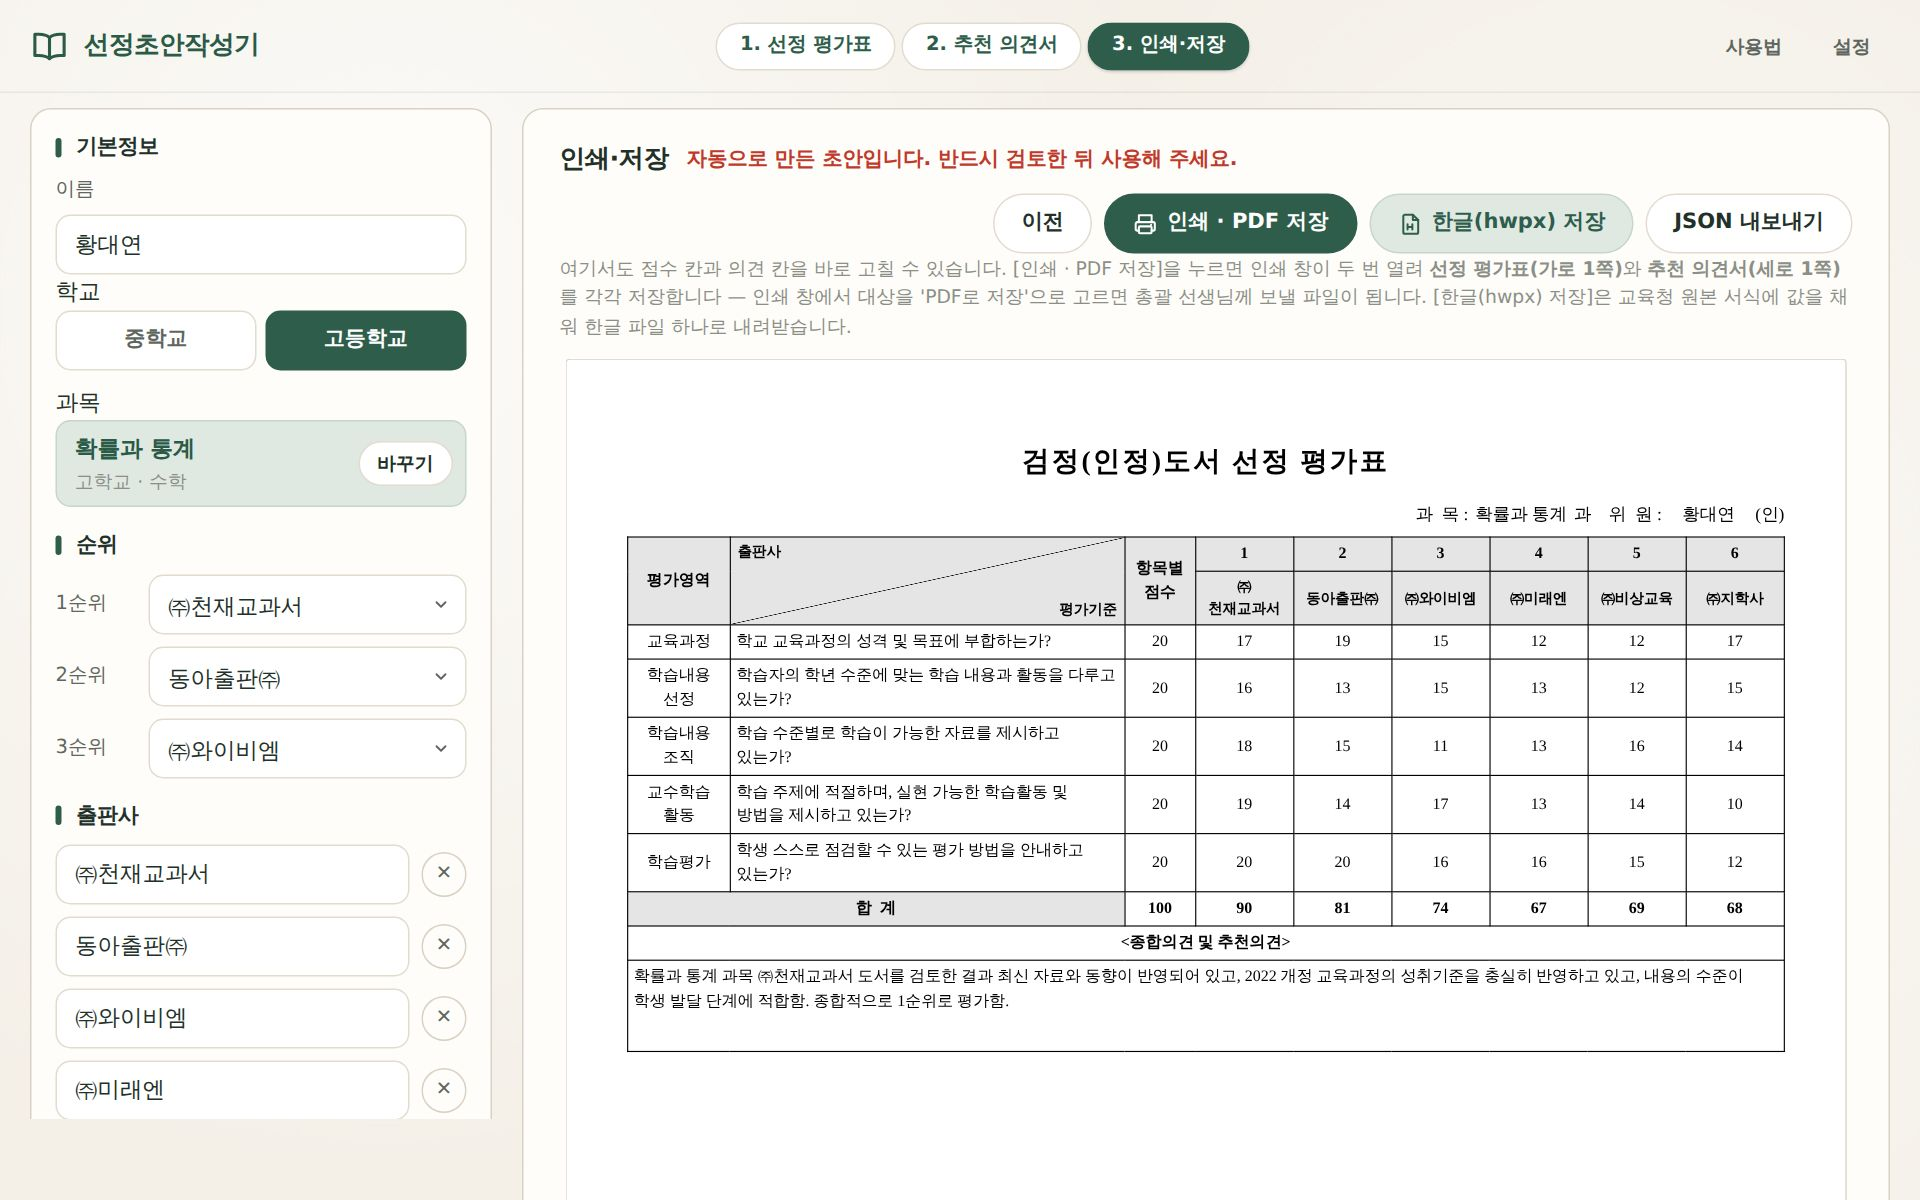
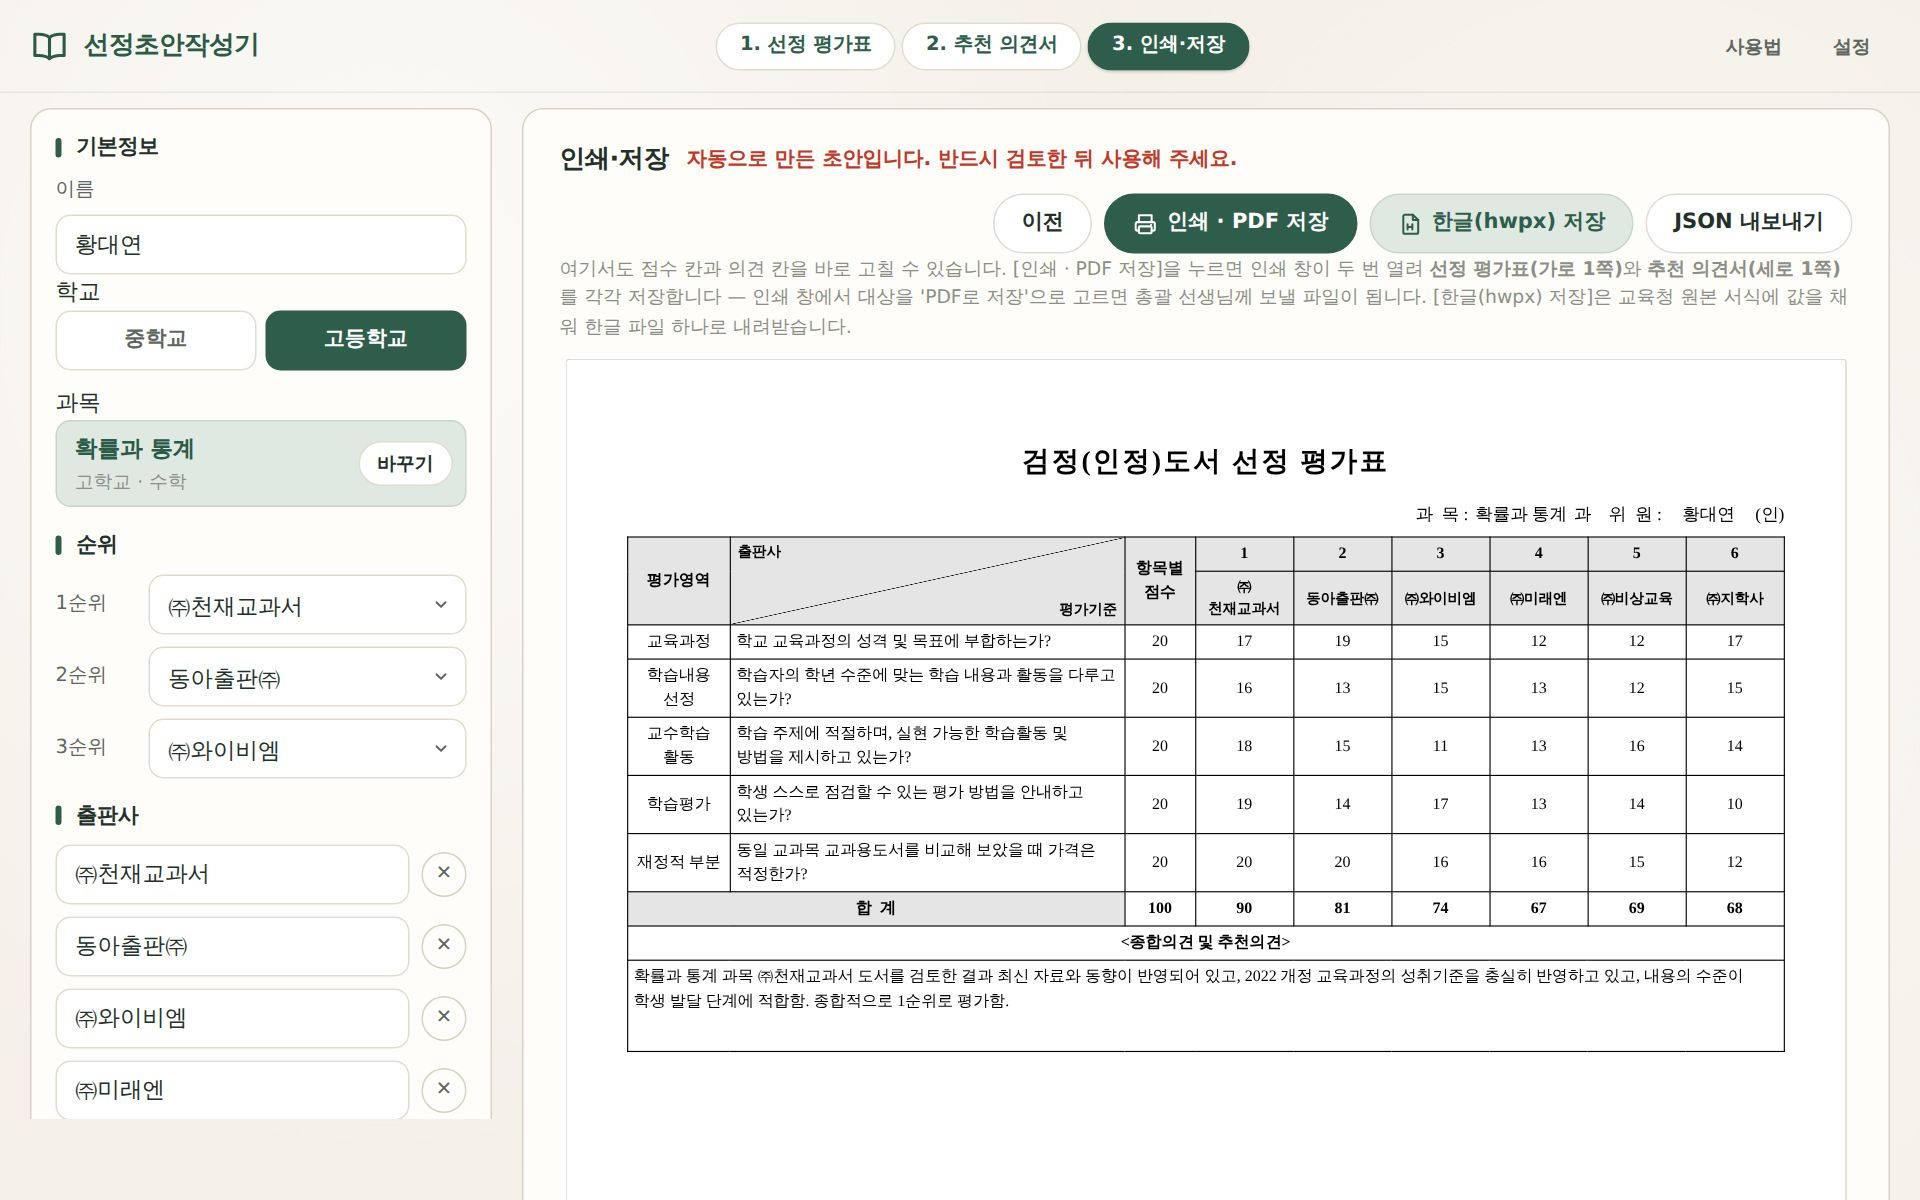
기본 평가기준: '학습내용 조직' 대신 재정 항목을 넣었다
교육과정 / 학습내용 선정 / 교수학습 활동 / 학습평가 / 재정적 부분(동일 교과목 교과용도서를 비교해
보았을 때 가격은 적정한가?), 각 20점. 재정 항목은 계획안 방침대로 필수(잠금)다.

손대지 않은 예전 기본값(첫 판·어제 판 모두)은 새 기본값으로 갈아 끼우고,
고쳐 둔 기준과 과목 전용 기준은 그대로 둔다. 사용법 캐러셀 화면 사진도 다시 찍었다.

Claude-Session: https://claude.ai/code/session_01RCs1Brw9A4HvY1UdBXHbwC

Changed region(s): [[0.3438, 0.5858, 0.5625, 0.74]]

diff --git a/src/seed.ts b/src/seed.ts
@@ -75,25 +75,37 @@ export function seedSubjects(): Subject[] {
   return out
 }
 
-/** 기본 평가기준 (학교 선정 계획안의 서식1 예시 그대로, 5항목 × 20점) */
+/**
+ * 기본 평가기준 (학교 선정 계획안의 서식1 예시 + 계획안 방침의 재정 항목, 5항목 × 20점).
+ * 재정 항목은 계획안이 '필수 평가요소'로 두고 있어 지울 수 없게 잠근다.
+ */
 export const DEFAULT_CRITERIA: Omit<Criterion, 'id' | 'subjectId'>[] = [
   { area: '교육과정', text: '학교 교육과정의 성격 및 목표에 부합하는가?', points: 20, locked: false, order: 1 },
   { area: '학습내용 선정', text: '학습자의 학년 수준에 맞는 학습 내용과 활동을 다루고 있는가?', points: 20, locked: false, order: 2 },
-  { area: '학습내용 조직', text: '학습 수준별로 학습이 가능한 자료를 제시하고 있는가?', points: 20, locked: false, order: 3 },
-  { area: '교수학습 활동', text: '학습 주제에 적절하며, 실현 가능한 학습활동 및 방법을 제시하고 있는가?', points: 20, locked: false, order: 4 },
-  { area: '학습평가', text: '학생 스스로 점검할 수 있는 평가 방법을 안내하고 있는가?', points: 20, locked: false, order: 5 },
+  { area: '교수학습 활동', text: '학습 주제에 적절하며, 실현 가능한 학습활동 및 방법을 제시하고 있는가?', points: 20, locked: false, order: 3 },
+  { area: '학습평가', text: '학생 스스로 점검할 수 있는 평가 방법을 안내하고 있는가?', points: 20, locked: false, order: 4 },
+  { area: '재정적 부분', text: '동일 교과목 교과용도서를 비교해 보았을 때 가격은 적정한가?', points: 20, locked: true, order: 5 },
 ]
 
 /**
- * 예전 기본 평가기준. 이 컴퓨터의 기본 기준이 이것과 똑같으면(선생님이 손대지 않았으면)
+ * 예전 기본 평가기준들. 이 컴퓨터의 기본 기준이 이 중 하나와 똑같으면(선생님이 손대지 않았으면)
  * 새 기본값으로 바꿔 준다 (store/migrate.ts). 손댄 기준은 그대로 둔다.
  */
-export const LEGACY_DEFAULT_CRITERIA: Pick<Criterion, 'area' | 'text' | 'points'>[] = [
-  { area: '교육과정 적합성', text: '2022 개정 교육과정 성취기준 반영 및 내용의 타당성', points: 25 },
-  { area: '내용의 선정·조직', text: '학생 수준·흥미에 맞는 내용 선정과 체계적 구성', points: 25 },
-  { area: '교수·학습 및 평가', text: '탐구·활동 과제, 자기주도학습 및 평가 자료의 적절성', points: 20 },
-  { area: '표현·표기 및 편집', text: '문장·용어의 정확성, 삽화·디자인·가독성', points: 15 },
-  { area: '가격 및 재정 (필수)', text: '정가의 적정성, 전년 대비 증감 및 동일 과목 타 도서와의 비교', points: 15 },
+export const LEGACY_DEFAULT_CRITERIA: Pick<Criterion, 'area' | 'text' | 'points'>[][] = [
+  [
+    { area: '교육과정 적합성', text: '2022 개정 교육과정 성취기준 반영 및 내용의 타당성', points: 25 },
+    { area: '내용의 선정·조직', text: '학생 수준·흥미에 맞는 내용 선정과 체계적 구성', points: 25 },
+    { area: '교수·학습 및 평가', text: '탐구·활동 과제, 자기주도학습 및 평가 자료의 적절성', points: 20 },
+    { area: '표현·표기 및 편집', text: '문장·용어의 정확성, 삽화·디자인·가독성', points: 15 },
+    { area: '가격 및 재정 (필수)', text: '정가의 적정성, 전년 대비 증감 및 동일 과목 타 도서와의 비교', points: 15 },
+  ],
+  [
+    { area: '교육과정', text: '학교 교육과정의 성격 및 목표에 부합하는가?', points: 20 },
+    { area: '학습내용 선정', text: '학습자의 학년 수준에 맞는 학습 내용과 활동을 다루고 있는가?', points: 20 },
+    { area: '학습내용 조직', text: '학습 수준별로 학습이 가능한 자료를 제시하고 있는가?', points: 20 },
+    { area: '교수학습 활동', text: '학습 주제에 적절하며, 실현 가능한 학습활동 및 방법을 제시하고 있는가?', points: 20 },
+    { area: '학습평가', text: '학생 스스로 점검할 수 있는 평가 방법을 안내하고 있는가?', points: 20 },
+  ],
 ]
 
 export function seedCriteria(): Criterion[] {

diff --git a/src/store/migrate.ts b/src/store/migrate.ts
@@ -33,12 +33,9 @@ export function migrateMaster(raw: unknown): Master {
  */
 function refreshDefaultCriteria(list: Criterion[]): Criterion[] {
   const defaults = list.filter((c) => c.subjectId === null).sort((a, b) => a.order - b.order)
-  const untouched =
-    defaults.length === LEGACY_DEFAULT_CRITERIA.length &&
-    defaults.every((c, i) => {
-      const l = LEGACY_DEFAULT_CRITERIA[i]
-      return c.area === l.area && c.text === l.text && c.points === l.points
-    })
+  const untouched = LEGACY_DEFAULT_CRITERIA.some(
+    (legacy) => defaults.length === legacy.length && defaults.every((c, i) => c.area === legacy[i].area && c.text === legacy[i].text && c.points === legacy[i].points),
+  )
   if (!untouched) return list
   return [...list.filter((c) => c.subjectId !== null), ...seedCriteria()]
 }
